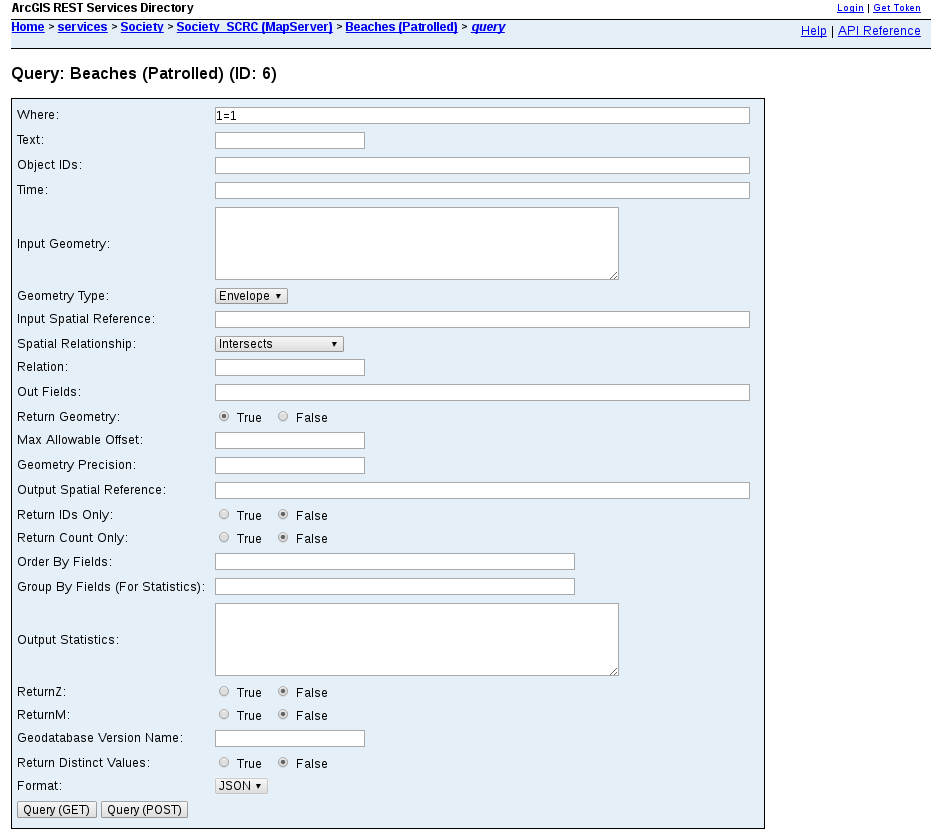
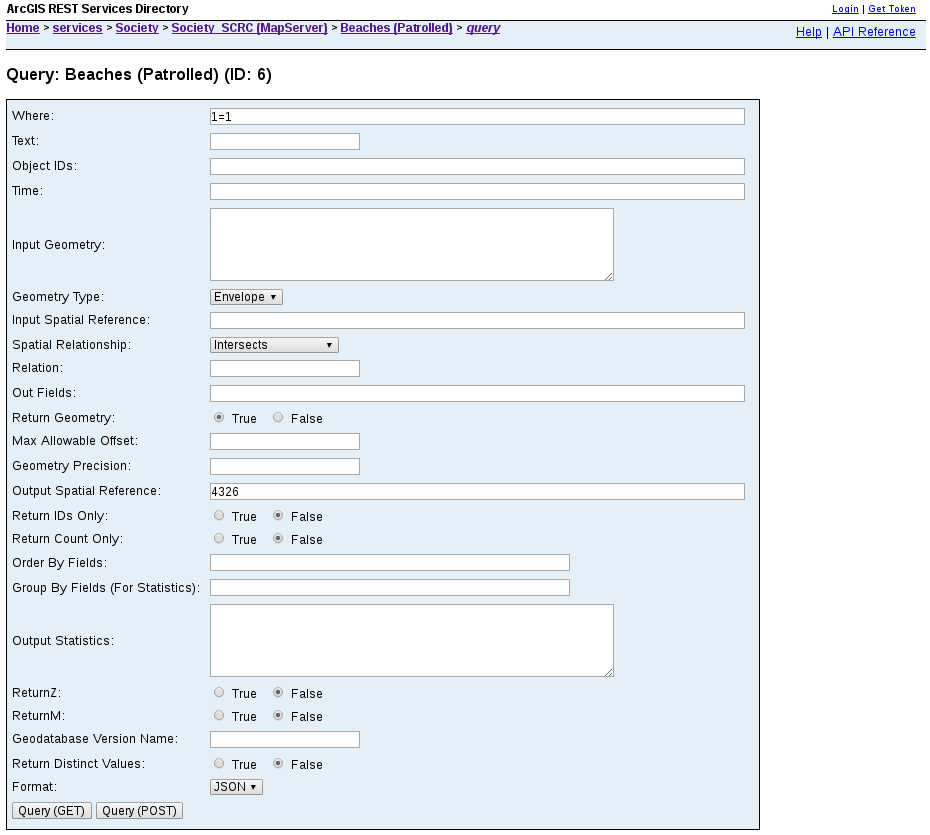
Update example to specify the mercator projection as the output spatial reference

Changed region(s): [[0.0, 0.0, 0.9978, 0.9964]]

diff --git a/Getting data out, the easy way/index.md b/Getting data out, the easy way/index.md
@@ -22,7 +22,7 @@ Open it in your browser of choice and you should be presented with a list of
 folders like this...  
 ![Folders List](img/FoldersList.png)
 
-For the purpose of this example we are going to find a list of patrolled 
+For the purpose of this example we are going to find a list of patrolled
 beaches. Once you have completed this example feel free to have a look
 around to see what other data sets are available from the ArcGIS server you are
 using.
@@ -34,7 +34,7 @@ link on the next page.
 You should now have a page with a list of layers like this...  
 ![Layers List](img/LayersList.png)
 
-The patrolled beaches layer is towards the top of the list as 
+The patrolled beaches layer is towards the top of the list as
 ```Beaches (Patrolled)```. Clicking on that option will get you a page with
 information on the layer like this...  
 ![Layer Page](img/LayerPage.png)
@@ -47,8 +47,8 @@ Click on the ```Query``` link and you should be presented with a page like
 this...  
 ![Blank Query](img/BlankQuery.png)
 
-We are going to change the ```Where``` clause to ```1=1``` and the ```Format```
-option to ```JSON``` as shown here...  
+We are going to change the ```Where``` clause to ```1=1```, ```Output Spatial Reference```
+to ```4326``` and the ```Format``` option to ```JSON``` as shown here...  
 ![Query](img/Query.png)
 
 Once you are ready click the ```Query (GET)``` button and you should get some
@@ -58,7 +58,7 @@ results like this...
 You should now be able to save the page (CTRL+S should do it). If the data set
 is one that changes regularly take note of the url that has been used so you
 can easily fetch it again. In this case it is
-[http://gisservices.scc.qld.gov.au/arcgis/rest/services/Society/Society_SCRC/MapServer/6/query?where=1%3D1&text=&objectIds=&time=&geometry=&geometryType=esriGeometryEnvelope&inSR=&spatialRel=esriSpatialRelIntersects&relationParam=&outFields=&returnGeometry=true&maxAllowableOffset=&geometryPrecision=&outSR=&returnIdsOnly=false&returnCountOnly=false&orderByFields=&groupByFieldsForStatistics=&outStatistics=&returnZ=false&returnM=false&gdbVersion=&returnDistinctValues=false&f=pjson](http://gisservices.scc.qld.gov.au/arcgis/rest/services/Society/Society_SCRC/MapServer/6/query?where=1%3D1&text=&objectIds=&time=&geometry=&geometryType=esriGeometryEnvelope&inSR=&spatialRel=esriSpatialRelIntersects&relationParam=&outFields=&returnGeometry=true&maxAllowableOffset=&geometryPrecision=&outSR=&returnIdsOnly=false&returnCountOnly=false&orderByFields=&groupByFieldsForStatistics=&outStatistics=&returnZ=false&returnM=false&gdbVersion=&returnDistinctValues=false&f=pjson)
+[http://gisservices.scc.qld.gov.au/arcgis/rest/services/Society/Society_SCRC/MapServer/6/query?where=1%3D1&text=&objectIds=&time=&geometry=&geometryType=esriGeometryEnvelope&inSR=&spatialRel=esriSpatialRelIntersects&relationParam=&outFields=&returnGeometry=true&maxAllowableOffset=&geometryPrecision=&outSR=4326&returnIdsOnly=false&returnCountOnly=false&orderByFields=&groupByFieldsForStatistics=&outStatistics=&returnZ=false&returnM=false&gdbVersion=&returnDistinctValues=false&f=pjson](http://gisservices.scc.qld.gov.au/arcgis/rest/services/Society/Society_SCRC/MapServer/6/query?where=1%3D1&text=&objectIds=&time=&geometry=&geometryType=esriGeometryEnvelope&inSR=&spatialRel=esriSpatialRelIntersects&relationParam=&outFields=&returnGeometry=true&maxAllowableOffset=&geometryPrecision=&outSR=4326&returnIdsOnly=false&returnCountOnly=false&orderByFields=&groupByFieldsForStatistics=&outStatistics=&returnZ=false&returnM=false&gdbVersion=&returnDistinctValues=false&f=pjson)
 
 And that's it. You should be able to apply this method to a lot of the data
 layers available. Some layers will be pre-rendered image based layers. You
